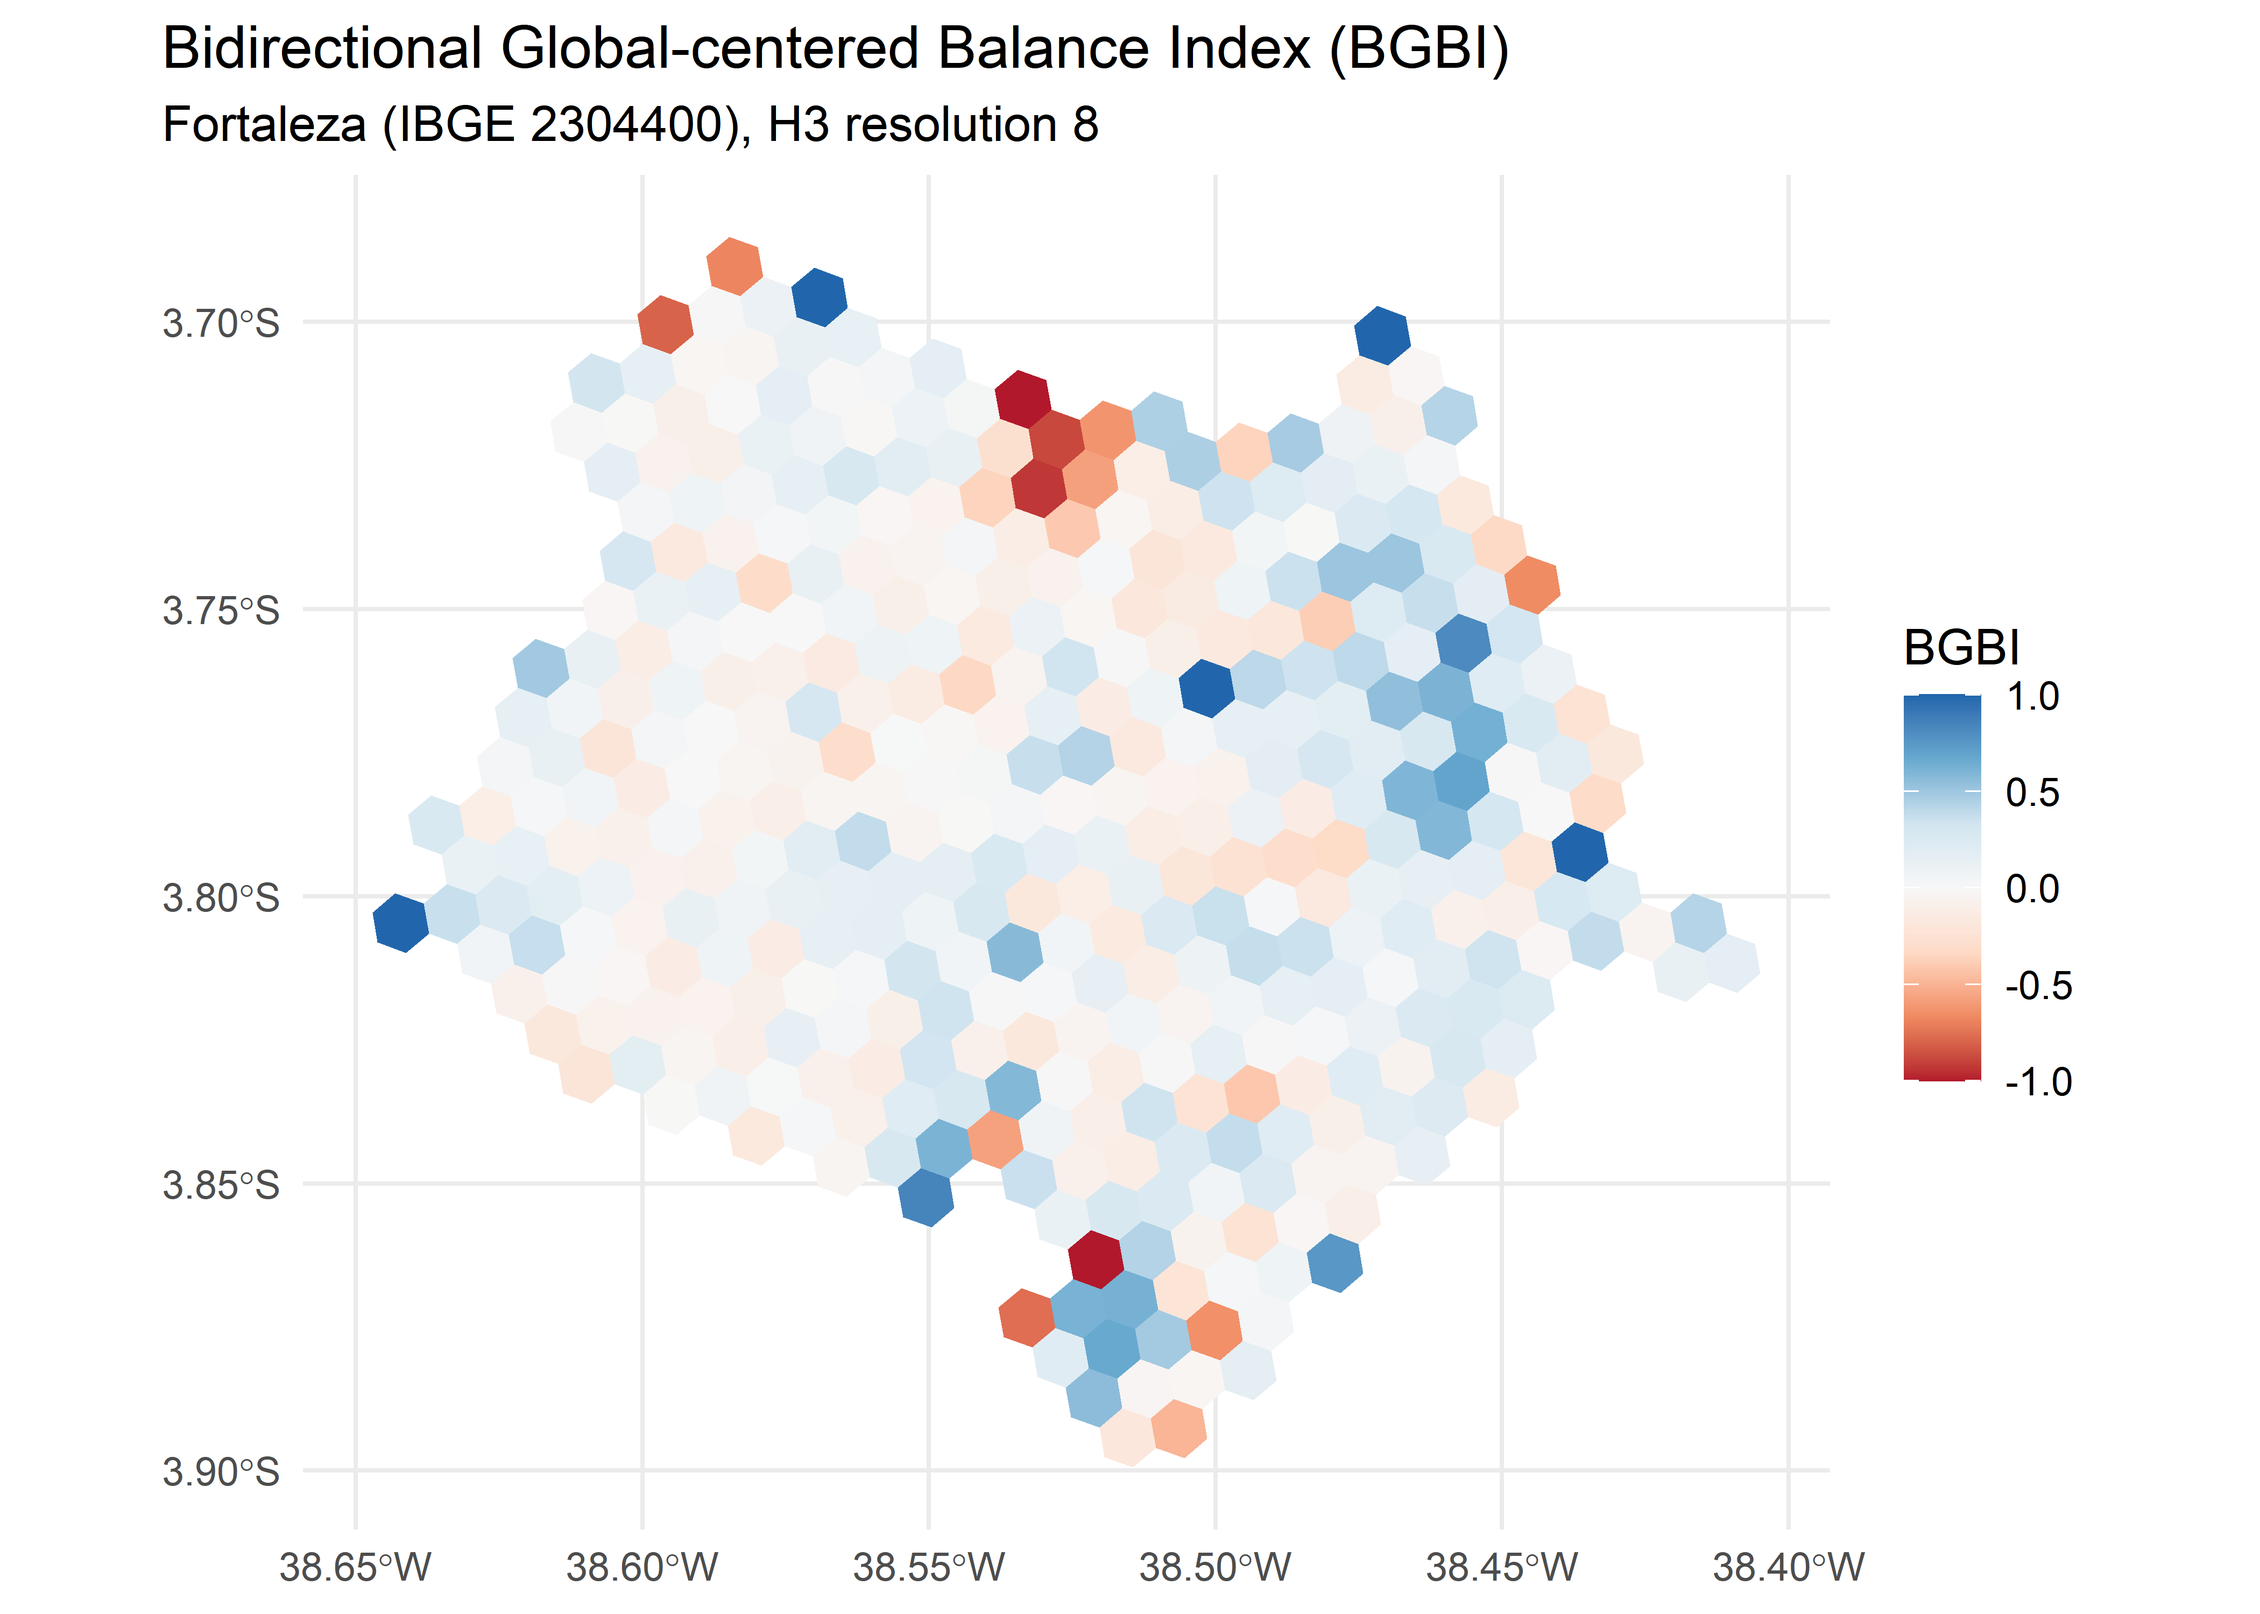
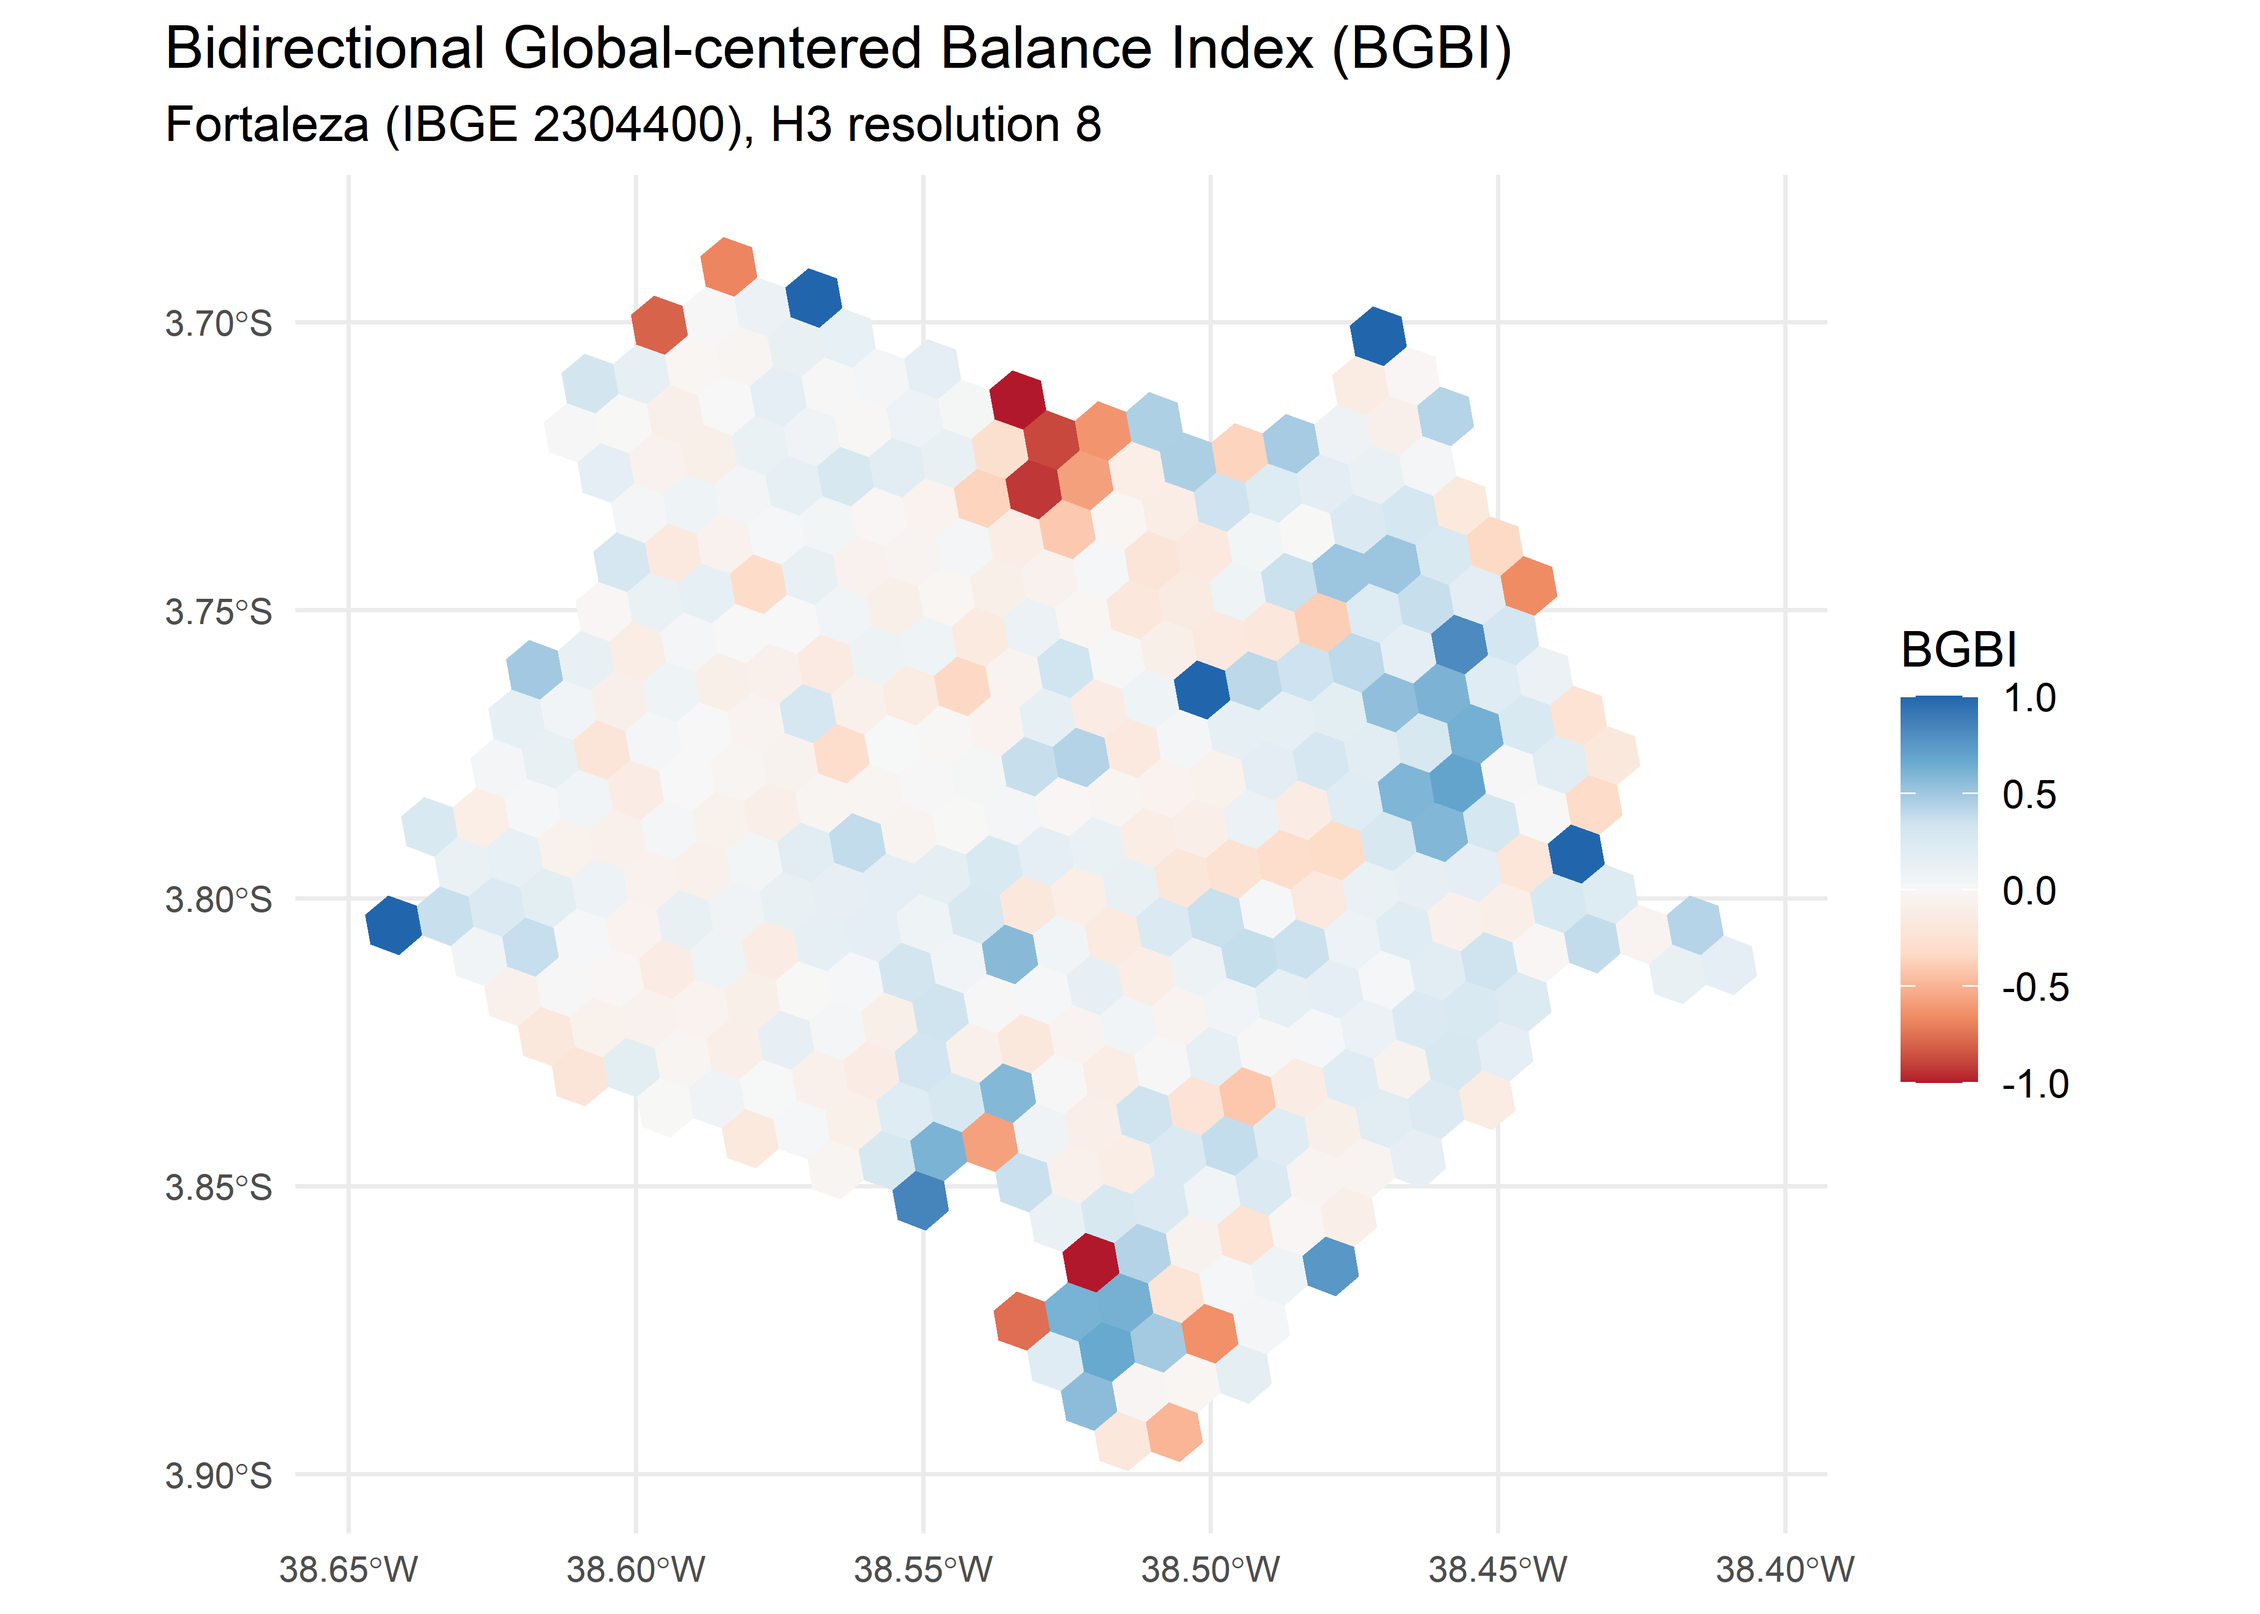
update README: remove year reference, improve ggplot axis text size
- Remove "2022" from CNEFE description to make it year-agnostic
- Add axis.text size = 8 to all ggplot chunks for better readability
- Re-render README.md and updated plot PNGs

diff --git a/README.md b/README.md
@@ -1,5 +1,5 @@
 
-# cnefetools: Tools for working with Brazilian CNEFE address data <a href="https://pedreirajr.github.io/cnefetools/"><img src="man/figures/logo.svg" align="right" height="150" alt="cnefetools website" /></a>
+# cnefetools: Tools for working with Brazilian CNEFE address data <a href="https://pedreirajr.github.io/cnefetools/"><img src="man/figures/logo.svg" alt="cnefetools website" align="right" height="150"/></a>
 
 [![R-CMD-check](https://github.com/pedreirajr/cnefetools/actions/workflows/R-CMD-check.yaml/badge.svg)](https://github.com/pedreirajr/cnefetools/actions/workflows/R-CMD-check.yaml)
 [![License:
@@ -8,7 +8,7 @@ MIT](https://img.shields.io/badge/License-MIT-yellow.svg)](https://opensource.or
 experimental](https://img.shields.io/badge/lifecycle-experimental-orange.svg)](https://lifecycle.r-lib.org/articles/stages.html#experimental)
 
 **{cnefetools}** provides helper functions to efficiently work with the
-2022 Brazilian National Address File for Statistical Purposes (*Cadastro
+Brazilian National Address File for Statistical Purposes (*Cadastro
 Nacional de Endereços para Fins Estatísticos*, CNEFE), an address-level
 dataset released by the Brazilian Institute of Geography and Statistics
 (*Instituto Brasileiro de Geografia e Estatística*, IBGE).
@@ -173,7 +173,9 @@ ggplot(hex_sp) +
   ) +
   theme_minimal()+
   theme(
-    plot.title.position = "plot"
+    plot.title.position = "plot",
+    axis.text.x = element_text(size = 8),
+    axis.text.y = element_text(size = 8)
   )
 ```
 
@@ -230,7 +232,9 @@ ggplot(lumi_ftl) +
   ) +
   theme_minimal()+
   theme(
-    plot.title.position = "plot"
+    plot.title.position = "plot",
+    axis.text.x = element_text(size = 8),
+    axis.text.y = element_text(size = 8)
   )
 ```
 
@@ -280,7 +284,9 @@ ggplot(rec_hex) +
   ) +
   theme_minimal() +
   theme(
-    plot.title.position = "plot"
+    plot.title.position = "plot",
+    axis.text.x = element_text(size = 8),
+    axis.text.y = element_text(size = 8)
   )
 ```
 
@@ -300,7 +306,9 @@ ggplot(rec_hex) +
   ) +
   theme_minimal() +
   theme(
-    plot.title.position = "plot"
+    plot.title.position = "plot",
+    axis.text.x = element_text(size = 8),
+    axis.text.y = element_text(size = 8)
   )
 ```
 
@@ -352,7 +360,9 @@ ggplot(rec_poly) +
   ) +
   theme_minimal() +
   theme(
-    plot.title.position = "plot"
+    plot.title.position = "plot",
+    axis.text.x = element_text(size = 8),
+    axis.text.y = element_text(size = 8)
   )
 ```
 
